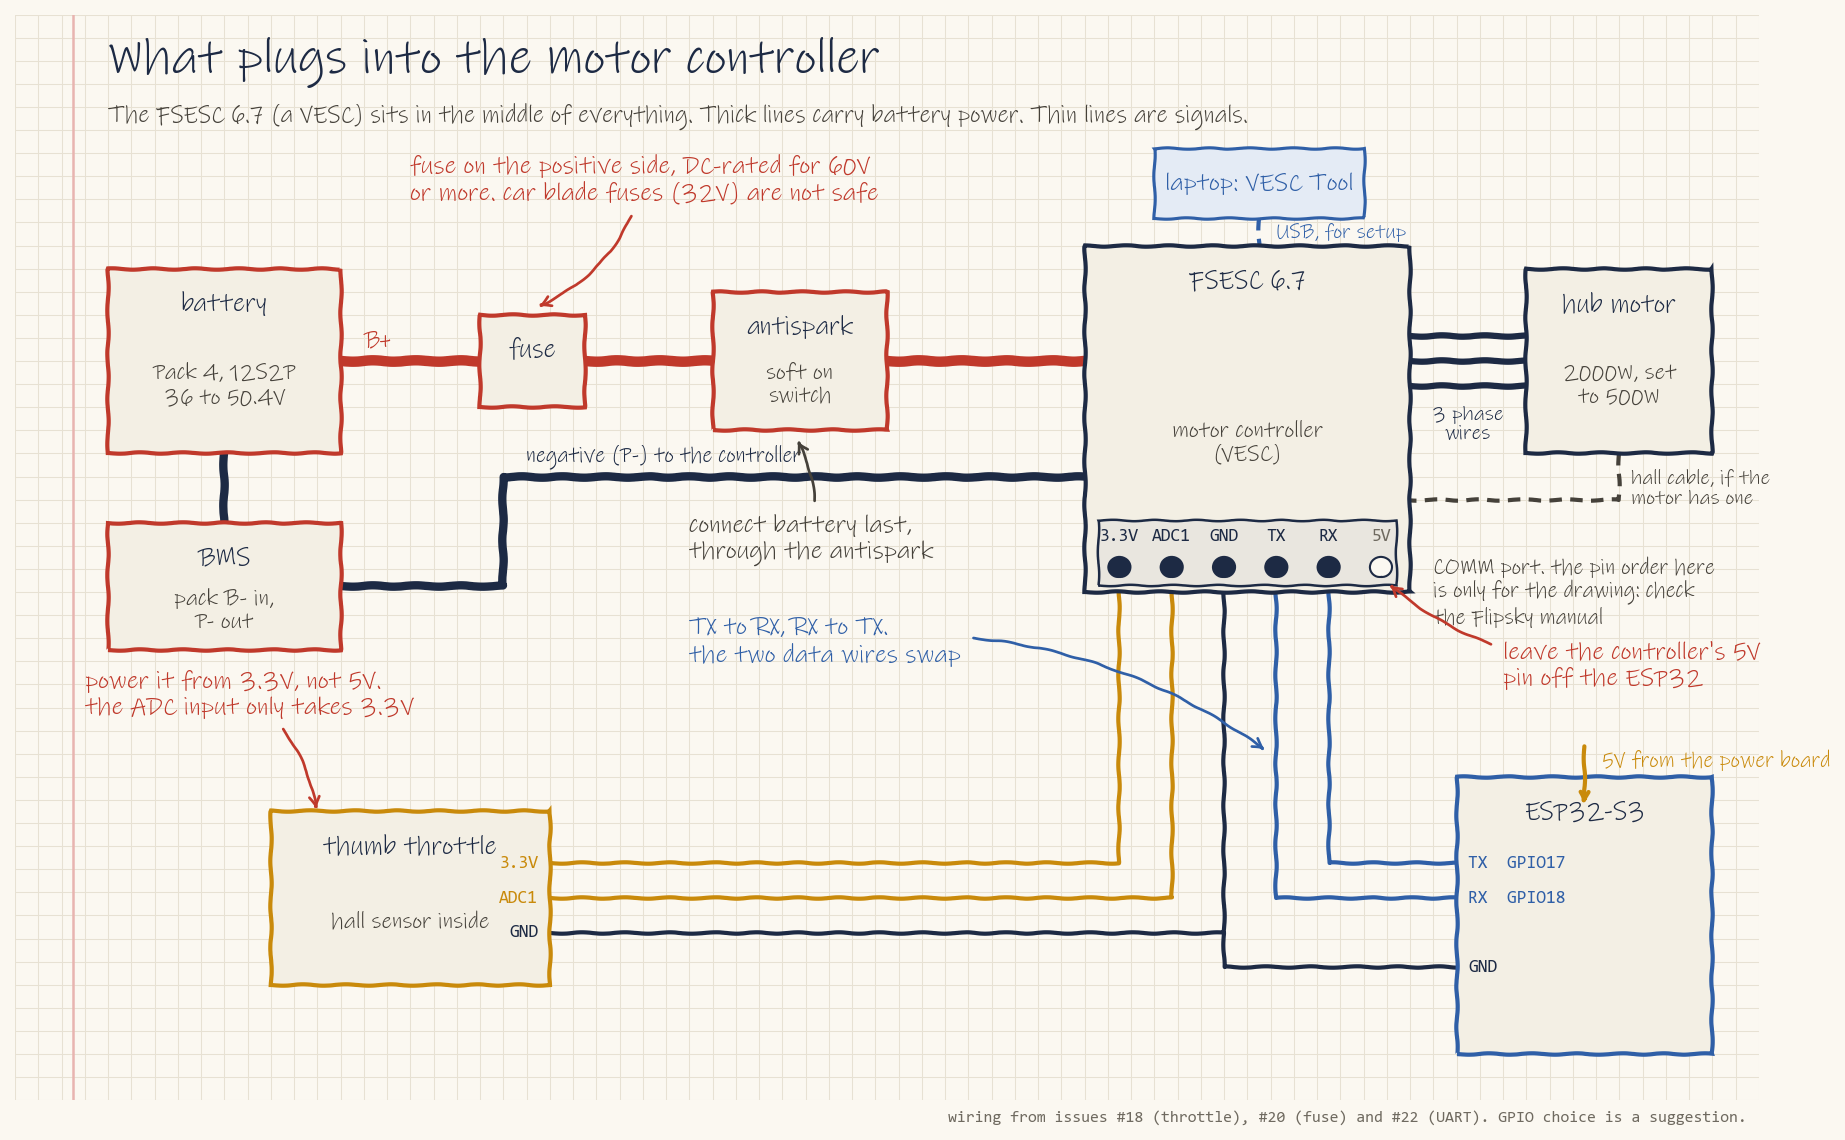
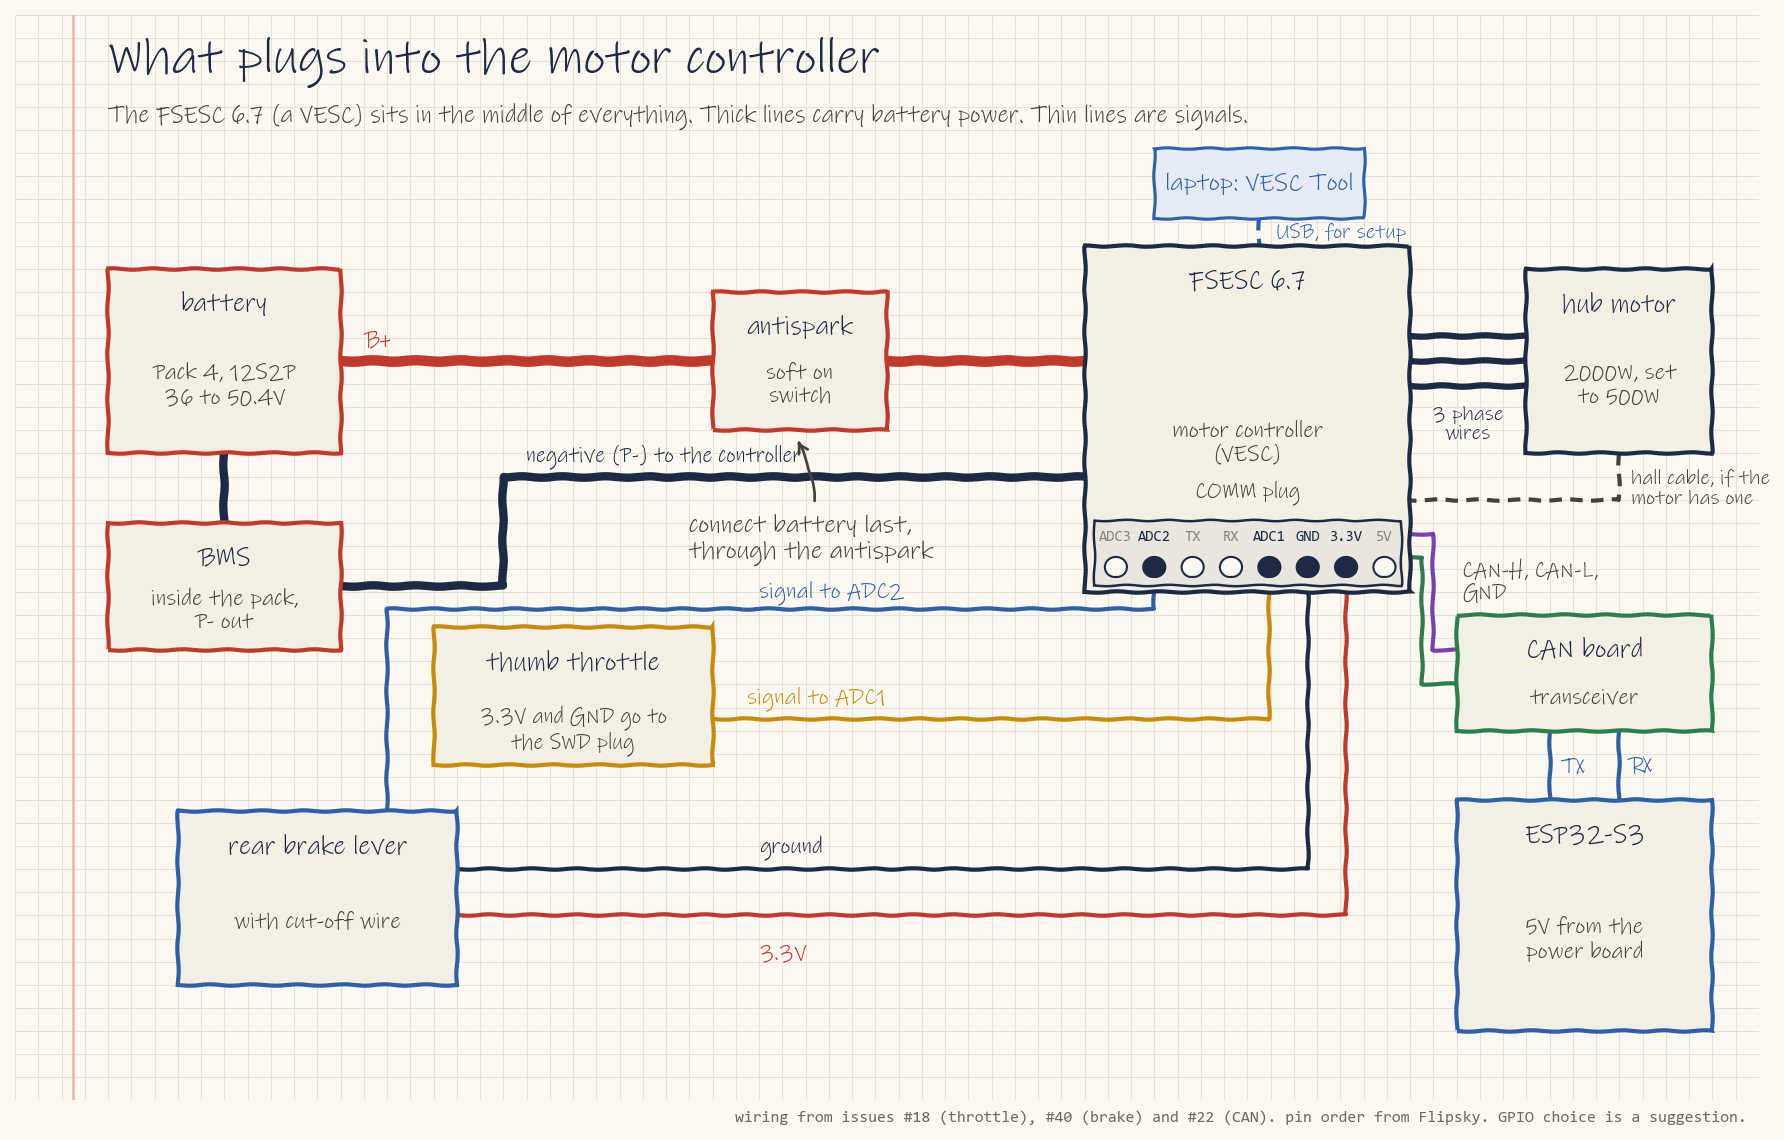
Update the docs and diagrams for CAN and no main fuse

Changed region(s): [[0.0308, 0.0307, 0.9865, 1.0], [0.0925, 0.3991, 0.1541, 0.4912], [0.0925, 0.5219, 0.1541, 0.5526]]

diff --git a/electrical/diagrams/motor-controller-connections.py b/electrical/diagrams/motor-controller-connections.py
@@ -18,22 +18,20 @@ def thin(xs, ys, c, ls='-'): ax.plot(xs, ys, color=c, lw=2, ls=ls, solid_capstyl
 
 Y = 64
 block(8, 56, 20, 16, 'battery', 'Pack 4, 12S2P\n36 to 50.4V', RED)
-block(8, 39, 20, 11, 'BMS', 'pack B- in,\nP- out', RED)
+block(8, 39, 20, 11, 'BMS', 'inside the pack,\nP- out', RED)
 thick([18, 18], [56, 50], INK, lw=4)
 thick([28, 42, 42, 92], [44.5, 44.5, 54, 54], INK, lw=4)
 note(ax, 44, 55.8, 'negative (P-) to the controller', size=9, color=INK)
-block(40, 60, 9, 8, 'fuse', '', RED)
 block(60, 58, 15, 12, 'antispark', 'soft on\nswitch', RED)
 block(92, 44, 28, 30, 'FSESC 6.7', 'motor controller\n(VESC)', INK)
 block(130, 56, 16, 16, 'hub motor', '2000W, set\nto 500W', INK)
-thick([28, 40], [Y, Y]); thick([49, 60], [Y, Y]); thick([75, 92], [Y, Y])
+thick([28, 60], [Y, Y]); thick([75, 92], [Y, Y])
 note(ax, 30, Y + 1.8, 'B+', size=10, color=RED, weight='bold')
 for dy in (-2.2, 0, 2.2):
     thick([120, 130], [Y + dy, Y + dy], INK, lw=3)
 note(ax, 125, Y - 5.4, '3 phase\nwires', size=8.5, color=INK, ha='center', linespacing=1)
 thin([138, 138, 120], [56, 52, 52], PENCIL, ls=(0, (3, 2)))
 note(ax, 139, 53, 'hall cable, if the\nmotor has one', size=8.5, color=PENCIL, linespacing=1.05)
-point(ax, (34, 78), (44.5, 68.5), 'fuse on the positive side, DC-rated for 60V\nor more. car blade fuses (32V) are not safe', color=RED, rad=-0.25)
 point(ax, (58, 47), (67, 57.6), 'connect battery last,\nthrough the antispark', color=PENCIL, rad=0.2)
 
 # laptop
@@ -42,34 +40,40 @@ note(ax, 107, 79.4, 'laptop: VESC Tool', size=10.5, ha='center', color=BLUE)
 thin([107, 107], [76.4, 74], BLUE, ls=(0, (3, 2)))
 note(ax, 108.5, 75.2, 'USB, for setup', size=8.5, color=BLUE)
 
-# COMM port on the controller
-px = [95, 99.5, 104, 108.5, 113, 117.5]
-names = ['3.3V', 'ADC1', 'GND', 'TX', 'RX', '5V']
-ax.add_patch(Rectangle((93.2, 44.6), 25.6, 5.6, fc='#e9e6df', ec=INK, lw=1.2, zorder=3))
+# COMM port on the controller, pins in the order Flipsky prints them
+names = ['ADC3', 'ADC2', 'TX', 'RX', 'ADC1', 'GND', '3.3V', '5V']
+px = [94.7 + i * 3.3 for i in range(8)]
+pos = dict(zip(names, px))
+used = {'ADC2', 'ADC1', 'GND', '3.3V'}
+ax.add_patch(Rectangle((92.8, 44.6), 26.4, 5.6, fc='#e9e6df', ec=INK, lw=1.2, zorder=3))
 for x, n in zip(px, names):
-    ax.add_patch(Circle((x, 46.2), 0.9, fc=INK if n != '5V' else PAPER, ec=INK, lw=1, zorder=4))
-    mono(ax, x, 48.8, n, size=7.6, ha='center', zorder=4, color=INK if n != '5V' else '#6f6a60')
-note(ax, 122, 44, 'COMM port. the pin order here\nis only for the drawing: check\nthe Flipsky manual', size=9, color=PENCIL, linespacing=1.1)
+    ax.add_patch(Circle((x, 46.2), 0.9, fc=INK if n in used else PAPER, ec=INK, lw=1, zorder=4))
+    mono(ax, x, 48.8, n, size=6.4, ha='center', zorder=4, color=INK if n in used else '#8a857a')
+note(ax, 106, 52.6, 'COMM plug', size=9, color=PENCIL, ha='center', zorder=4)
 
-# throttle, wires drop straight down then left, no crossings
-block(22, 10, 24, 15, 'thumb throttle', 'hall sensor inside', GOLD)
-for n, y in [('3.3V', 20.5), ('ADC1', 17.5), ('GND', 14.5)]:
-    x = px[names.index(n)]
-    thin([46, x, x], [y, y, 45.3], GOLD if n != 'GND' else INK)
-    mono(ax, 45, y, n, size=7.6, color=GOLD if n != 'GND' else INK, ha='right', zorder=3)
-point(ax, (6, 33.5), (26, 24.6), 'power it from 3.3V, not 5V.\nthe ADC input only takes 3.3V', color=RED, rad=-0.2)
+# throttle: signal to ADC1, power and ground from the SWD plug
+block(36, 29, 24, 12, 'thumb throttle', '', GOLD)
+note(ax, 48, 32, '3.3V and GND go to\nthe SWD plug', size=9, color=PENCIL, ha='center', linespacing=1.05, zorder=3)
+thin([60, pos['ADC1'], pos['ADC1']], [33, 33, 45.3], GOLD)
+note(ax, 63, 34.8, 'signal to ADC1', size=9.5, color=GOLD)
 
-# ESP32, to the right; RX->TX and TX->RX, GND shared
-block(124, 4, 22, 24, 'ESP32-S3', '', BLUE)
-thin([113, 113, 124], [45.3, 20.5, 20.5], BLUE)     # VESC RX <- ESP TX
-thin([108.5, 108.5, 124], [45.3, 17.5, 17.5], BLUE) # VESC TX -> ESP RX
-thin([104, 104, 124], [14.5, 11.5, 11.5], INK)      # shared ground
-for n, y in [('TX  GPIO17', 20.5), ('RX  GPIO18', 17.5), ('GND', 11.5)]:
-    mono(ax, 125, y, n, size=7.6, color=BLUE if n != 'GND' else INK, zorder=3)
-point(ax, (58, 38), (108, 30), "TX to RX, RX to TX.\nthe two data wires swap", color=BLUE, rad=-0.2)
-point(ax, (128, 36), (117.8, 45), "leave the controller's 5V\npin off the ESP32", color=RED, rad=-0.2, ha='left')
-ax.annotate('', xy=(135, 25.2), xytext=(135, 31), arrowprops=dict(arrowstyle='->', color=GOLD, lw=2))
-note(ax, 136.5, 29.5, '5V from the power board', size=9, color=GOLD)
+# rear brake lever: signal to ADC2, power and ground from COMM
+block(14, 10, 24, 15, 'rear brake lever', 'with cut-off wire', BLUE)
+thin([32, 32, pos['ADC2'], pos['ADC2']], [25, 42.5, 42.5, 45.3], BLUE)
+thin([38, pos['GND'], pos['GND']], [20, 20, 45.3], INK)
+thin([38, pos['3.3V'], pos['3.3V']], [16, 16, 45.3], RED)
+note(ax, 64, 44, 'signal to ADC2', size=9.5, color=BLUE)
+note(ax, 64, 21.8, 'ground', size=9.5, color=INK)
+note(ax, 64, 12.8, '3.3V', size=9.5, color=RED)
 
-mono(ax, 149, -1.5, 'wiring from issues #18 (throttle), #20 (fuse) and #22 (UART). GPIO choice is a suggestion.', size=7, color='#6f6a60', ha='right')
+# ESP32 reaches the controller over CAN, through an add-on board
+block(124, 32, 22, 10, 'CAN board', 'transceiver', GREEN)
+thin([120, 122, 122, 124], [49, 49, 39, 39], '#7b3fb0')
+thin([120, 121, 121, 124], [47, 47, 36, 36], GREEN)
+note(ax, 124.5, 45, 'CAN-H, CAN-L,\nGND', size=9, color=PENCIL, linespacing=1.05)
+block(124, 6, 22, 20, 'ESP32-S3', '5V from the\npower board', BLUE)
+thin([132, 132], [32, 26], BLUE); thin([138, 138], [32, 26], BLUE)
+note(ax, 133, 29, 'TX', size=9, color=BLUE, ha='left'); note(ax, 139, 29, 'RX', size=9, color=BLUE, ha='left')
+
+mono(ax, 149, -1.5, 'wiring from issues #18 (throttle), #40 (brake) and #22 (CAN). pin order from Flipsky. GPIO choice is a suggestion.', size=7, color='#6f6a60', ha='right')
 save(fig, os.path.join(HERE, 'motor-controller-connections.png'))

diff --git a/electrical/diagrams/bakfiets-power-flow.py b/electrical/diagrams/bakfiets-power-flow.py
@@ -6,7 +6,7 @@ from matplotlib.patches import Rectangle, Circle, FancyArrowPatch
 
 fig, ax = page(150, 98, (15, 9.8))
 note(ax, 8, 94, 'How power flows through the bakfiets', size=24, weight='bold')
-note(ax, 8, 89.2, 'Block diagram, 12S pack (50.4 V full). Red: battery + through fuse and antispark. Black: battery - through the BMS and antispark.\nOrange: 5 V rail. Dashed blue: low-voltage signals. Numbers match the list in electrical/README.md.',
+note(ax, 8, 89.2, 'Block diagram, 12S pack (50.4 V full). Red: battery + through the antispark. Black: battery - through the BMS and antispark.\nOrange: 5 V rail. Dashed blue: low-voltage signals. Numbers match the list in electrical/README.md.',
      size=11.5, color=PENCIL)
 
 def block(x, y, w, h, title, sub, col, n=None):
@@ -25,23 +25,21 @@ def arrow(p, q, c, ls='-', lw=2, rad=0):
 Y = 72
 block(9, 66, 15, 12, 'charger', '12S, 50.4V', RED, 1)
 block(34, 62, 18, 16, 'battery pack', 'Pack 4: 12S2P\nlithium-ion cells', RED, 2)
-block(58, 68, 7, 8, 'fuse', '', RED)
 block(72, 66, 15, 12, 'antispark', 'soft power-on', RED, 4)
 block(108, 60, 20, 20, 'motor\ncontroller', '', RED, 5)
-note(ax, 118, 62.5, 'VESC-style (model ?)', size=9.2, color=PENCIL, ha='center', zorder=3)
+note(ax, 118, 62.5, 'Flipsky FSESC 6.7', size=9.2, color=PENCIL, ha='center', zorder=3)
 block(134, 63, 14, 14, 'hub\nmotor', '', INK)
 note(ax, 141, 65.5, '2000W, set\nto 500W', size=9.2, color=PENCIL, ha='center', zorder=3)
-line([24, 34], [Y, Y]); line([52, 58], [Y, Y]); line([65, 72], [Y, Y]); line([87, 108], [Y, Y])
+line([24, 34], [Y, Y]); line([52, 72], [Y, Y]); line([87, 108], [Y, Y])
 note(ax, 97.5, 76.5, 'battery power\nfor the motor', size=8.5, color=RED, ha='center', linespacing=1)
 for dy in (-2, 0, 2): line([128, 134], [Y + dy, Y + dy], INK, lw=2.6)
 arrow((134, 65), (128.2, 65), BLUE, ls=(0, (4, 3)))
 note(ax, 141, 60.6, 'hall sensors:\nwhere the rotor is', size=8.2, color=BLUE, ha='center', linespacing=1)
 note(ax, 141, 82, '3 phase wires:\npower that\nspins the motor', size=8.2, color=INK, ha='center', linespacing=1)
-note(ax, 29, 82, 'charging port:\nrefills the pack\n(fused, DC 60V+)', size=8.2, color=RED, ha='center', linespacing=1)
-note(ax, 61.5, 82, 'fuse: blows if a short pulls\ntoo much current (DC 60V+)', size=9.2, color=RED, ha='center', linespacing=1.1)
+note(ax, 29, 82, 'charging port:\nrefills the pack', size=8.2, color=RED, ha='center', linespacing=1)
 
 # negative side through the BMS
-block(34, 44, 18, 11, 'BMS', 'B- in, P- out', INK, 3)
+block(34, 44, 18, 11, 'BMS', 'inside the pack\nB- in, P- out', INK, 3)
 line([43, 43], [62, 55], INK, lw=4)
 note(ax, 44, 58.5, "B-: the pack's minus side", size=9, color=INK)
 line([52, 84, 84], [49.5, 49.5, 66], INK, lw=4)
@@ -67,25 +65,24 @@ note(ax, 133.5, 54.5, 'how fast the rider\nwants to go (ADC, 3.3V)', size=8.5, c
 
 # electronics
 block(34, 8, 24, 13, 'ESP32-S3', "the bike's small\ncomputer", BLUE, 7)
-block(9, 9, 17, 10, 'screen', '128x64 OLED', BLUE)
+block(9, 9, 17, 10, 'screen', '2.8 inch TFT', BLUE)
 block(84, 9, 22, 10, 'lights', 'LED strip, brake', GOLD)
 block(34, 0.5, 24, 5.5, 'buttons', '', BLUE)
-block(116, 9, 22, 10, 'brake levers', '', BLUE)
+block(116, 9, 22, 10, 'rear brake lever', '', BLUE)
 arrow((92, 26), (52, 21.2), GOLD, lw=2.4, rad=-0.1)
 arrow((97, 26), (97, 19.2), GOLD, lw=2.4)
 note(ax, 66, 26.2, '5V: powers the ESP32', size=9.2, color=GOLD, weight='bold')
 note(ax, 98.5, 22.6, '5V: powers the lights', size=9.2, color=GOLD, weight='bold')
 arrow((34, 14), (26.2, 14), BLUE, ls=(0, (4, 3)))
-note(ax, 26.8, 9.8, 'I2C:\nwhat to\nshow', size=8.2, color=BLUE, linespacing=1)
+note(ax, 26.8, 9.8, 'SPI:\nwhat to\nshow', size=8.2, color=BLUE, linespacing=1)
 arrow((58, 14), (83.8, 14), BLUE, ls=(0, (4, 3)))
 note(ax, 60, 17, 'LED data: which LEDs\nto turn on, and what colour', size=8.5, color=BLUE, linespacing=1)
 arrow((46, 6), (46, 7.8), BLUE, ls=(0, (4, 3)))
 note(ax, 59.5, 3.2, 'the rider presses them\n(lights, assist level)', size=8.5, color=BLUE, linespacing=1)
-arrow((116, 14), (106.2, 14), BLUE, ls=(0, (4, 3)))
 arrow((127, 19), (121, 59.8), BLUE, ls=(0, (4, 3)), rad=0.1)
-note(ax, 131, 30, 'brake levers cut\nmotor power (#18)\nand light the\nbrake lights', size=8.8, color=BLUE, linespacing=1.05)
+note(ax, 131, 30, 'the lever cuts\nmotor power (#40).\nthe ESP32 reads it\nfor the brake light', size=8.8, color=BLUE, linespacing=1.05)
 ax.plot([40, 40, 117, 117], [21, 43.5, 43.5, 60], color=BLUE, lw=1.8, ls=(0, (2, 3)), zorder=1)
-note(ax, 56, 46.4, 'UART (#22): the controller sends speed\nand battery level, for the screen', size=9.3, color=BLUE, linespacing=1.05)
+note(ax, 56, 46.4, 'CAN (#22): the controller sends speed\nand battery level, for the screen', size=9.3, color=BLUE, linespacing=1.05)
 
 # key
 lx, ly = 9, 34
@@ -94,5 +91,5 @@ line([lx, lx + 4], [ly - 3.2, ly - 3.2], RED, 5); note(ax, lx + 5.5, ly - 3.2, '
 line([lx, lx + 4], [ly - 6.4, ly - 6.4], INK, 4); note(ax, lx + 5.5, ly - 6.4, 'battery -', size=9.5)
 ax.plot([lx + 18, lx + 22], [ly - 3.2, ly - 3.2], color=GOLD, lw=2.4); note(ax, lx + 23.5, ly - 3.2, '5V', size=9.5)
 ax.plot([lx + 18, lx + 22], [ly - 6.4, ly - 6.4], color=BLUE, lw=2, ls=(0, (4, 3))); note(ax, lx + 23.5, ly - 6.4, 'signals', size=9.5)
-mono(ax, 149, -2, 'redrawn from the 2024 block diagram (high-level-circuit-diagram-2024.png). Fuse, BMS side, brake cut-off and UART added from issues #18 to #22', size=6.6, color='#6f6a60', ha='right')
+mono(ax, 149, -2, 'redrawn from the 2024 block diagram (high-level-circuit-diagram-2024.png). BMS side, brake cut-off and CAN added from issues #18 to #40', size=6.6, color='#6f6a60', ha='right')
 save(fig, os.path.join(HERE, 'bakfiets-power-flow.png'))

diff --git a/ONBOARDING.md b/ONBOARDING.md
@@ -125,7 +125,7 @@ From the UW [Lithium Cell and Battery Standard](https://uwaterloo.ca/safety-offi
 2. Store packs in a metal box or battery cabinet. A LiPo bag is too small for a 24-cell e-bike pack.
 3. Charge on a non-combustible surface (concrete or a metal tray) away from anything that burns. Stay with a pack the whole time it charges, and unplug it once it's full.
 4. Use only a charger marked 12S with a 50.4 V output (12S means 12 cell groups in series). Our pack reaches 50.4 V when full, and UW's standard calls for extra safety steps at 50 V and above. That's why battery work always needs the electrical lead there.
-5. Pack 4 is the pack we use. Ling says it's working and still has charge. Look it over before using it, and only use it wired through the BMS, a fuse and the antispark ([#21](https://github.com/Electrium-Mobility/Bakfiets-F26/issues/21)).
+5. Pack 4 is the pack we use. Ling says it's working and still has charge. Look it over before using it. The BMS is built in, and the pack connects through the antispark ([#21](https://github.com/Electrium-Mobility/Bakfiets-F26/issues/21)).
 6. Never use a swollen or damaged pack.
 7. If a pack gets hot, smells or smokes, get everyone away and pull the fire alarm if there's fire. Then tell the electrical lead and the project lead.
 8. Every pack goes on the SDC's shared battery and chemical inventory sheet, which the SDC is setting up this term.
@@ -298,12 +298,12 @@ You will learn to read a real Electrium board, then help design the bike's elect
 *Thick red lines carry full battery voltage (about 36 to 50 V). Orange lines carry 5 V. Dashed blue lines are signals only.*
 
 1. **Charger** plugs into a charging port on the frame and fills the pack to 50.4 V.
-2. **Battery pack**: Pack 4, a 48 V pack labelled 12S2P. That's 12 groups wired in series, with 2 cells in parallel in each group: 24 cells, about 44 V in normal use. "48 V" is just the name shops use for packs this size. [#21](https://github.com/Electrium-Mobility/Bakfiets-F26/issues/21) confirms the 12S by counting the balance wires before anyone uses it. The drawing under this list shows how the cells connect. The positive side goes through a fuse (DC-rated for 60 V or more).
+2. **Battery pack**: Pack 4, a 48 V pack labelled 12S2P. That's 12 groups wired in series, with 2 cells in parallel in each group: 24 cells, about 44 V in normal use. "48 V" is just the name shops use for packs this size. [#21](https://github.com/Electrium-Mobility/Bakfiets-F26/issues/21) confirms the 12S by counting the balance wires before anyone uses it. The drawing under this list shows how the cells connect. The pack runs without a main fuse.
 3. **BMS** (battery management system) sits on the pack's negative side, so both charging and riding current pass through it. It cuts the pack off on overcharge, over-discharge, overheating or a short.
 4. **Antispark**: the power button switches it on, and it lets power in slowly so the controller's capacitors charge without a spark. *Design note for later, not needed for Stage 1:* the Electrium anti-spark board you read in Stage 1 uses N-channel MOSFETs, which usually means it switches the negative wire. Check that in its schematic. If it does switch the negative wire, the power board and the ESP32 must take their negative from the switched side too. Otherwise the ESP32's ground wire to the controller becomes a path around the antispark, which can damage the controller's COMM port or the ESP32.
 5. **Motor controller (ESC)** turns battery power into the three motor wires. The throttle sends it a speed request, and the brake levers tell it to cut power.
 6. **Power board (PDB)** steps 48 V down to 5 V for the small electronics and lights.
-7. **ESP32-S3** runs the display and LED strip, reads the buttons, and gets speed and battery data from the controller over UART.
+7. **ESP32-S3** runs the display and LED strip, reads the buttons, and gets speed and battery data from the controller over CAN, through a small add-on board called a CAN transceiver.
 
 ![A 12S2P pack seen from above: 12 groups of 2 cells, voltages adding up to about 44 V, and 13 balance wires to the BMS](electrical/diagrams/pack-12s2p.png)
 
@@ -435,7 +435,7 @@ Pick one of these and claim it with a comment on the issue saying you're working
 
 | Issue | What you'll do |
 | --- | --- |
-| [#22](https://github.com/Electrium-Mobility/Bakfiets-F26/issues/22) | Read speed and battery data from the motor controller (VESC) over UART |
+| [#22](https://github.com/Electrium-Mobility/Bakfiets-F26/issues/22) | Read speed and battery data from the motor controller (VESC) over CAN |
 | [#23](https://github.com/Electrium-Mobility/Bakfiets-F26/issues/23) | Decide whether the bike needs a screen, and which one |
 | [#13](https://github.com/Electrium-Mobility/Bakfiets-F26/issues/13) | Stop the LED animation from freezing the code, using `millis()` ([video](https://www.youtube.com/watch?v=BYKQ9rk0FEQ), 14 min) |
 | [#14](https://github.com/Electrium-Mobility/Bakfiets-F26/issues/14) | Add a button that changes the PA level |
@@ -447,7 +447,7 @@ Pick one of these and claim it with a comment on the issue saying you're working
 | Requirement | Value |
 | --- | --- |
 | Board | ESP32-S3 |
-| Pins | Screen SDA GPIO 10, SCL GPIO 9. LED strip GPIO 5. Motor controller UART (suggested) TX GPIO 17, RX GPIO 18 |
+| Pins | Screen SDA GPIO 10, SCL GPIO 9. LED strip GPIO 5. Motor controller CAN (suggested) TX GPIO 17, RX GPIO 18 |
 | Loop timing | No `delay()` longer than 20 ms in `loop()` |
 | Where new code goes | A new folder, such as `firmware/display-2026/`. To make it, open the desk demo, choose **File > Save As**, and save it as `display-2026` inside `firmware/`. Arduino needs the folder and the `.ino` file to share a name. Leave `display-2024/` unchanged |
 | Battery input | Test with a bench power supply, not the pack, until the electrical lead checks your divider |

diff --git a/electrical/README.md b/electrical/README.md
@@ -19,18 +19,18 @@ A redrawn, color-coded version of the 2024 block diagram. Red lines are the batt
 Follow the numbers:
 
 1. **Charger.** Plugs into a charging port on the frame and fills the pack to 50.4 V.
-2. **Battery pack.** Pack 4, 12S2P. Its positive side goes through a fuse, DC-rated for 60 V or more.
-3. **BMS.** Sits on the pack's negative side (B- in, P- out), so charging and riding current both pass through it. Cuts the pack off on overcharge, over-discharge, overheating or a short.
+2. **Battery pack.** Pack 4, 12S2P. The pack runs without a main fuse.
+3. **BMS.** Built into the pack, on its negative side (B- in, P- out), so charging and riding current both pass through it. Cuts the pack off on overcharge, over-discharge, overheating or a short.
 4. **Antispark.** The power button turns it on, so the controller's capacitors charge gently instead of sparking. The Electrium anti-spark board uses N-channel MOSFETs, which usually means it switches the negative wire. Check its schematic. If it does switch the negative wire, the power board and the ESP32 must take their negative from the switched side too. Otherwise the ESP32's ground wire to the controller becomes a path around the antispark, which can damage the controller's COMM port or the ESP32.
-5. **Motor controller.** The ESC turns battery power into the three motor wires. The throttle sends it a speed request, and the brake levers tell it to cut power.
+5. **Motor controller.** The ESC turns battery power into the three motor wires. The throttle sends it a speed request, and the rear brake lever tells it to cut power.
 6. **Power board.** The PDB steps 48 V down to 5 V for the electronics and lights.
-7. **ESP32-S3.** It drives the display over I2C and the LED strip, reads the buttons, and gets speed and battery data from the controller over UART. The brake levers also switch the brake lights.
+7. **ESP32-S3.** It drives the display over I2C and the LED strip, reads the buttons, and gets speed and battery data from the controller over CAN, through a small add-on board called a CAN transceiver. It also reads the rear brake lever to turn on the brake light.
 
 ## What plugs into the motor controller
 
 ![Motor controller connections](diagrams/motor-controller-connections.png)
 
-The throttle, UART and fuse details come from term projects #18, #20 and #22. The COMM port pin order in the drawing is only for layout, so check the Flipsky manual.
+The throttle, brake and CAN details come from term projects #18, #40 and #22. Check the labels printed on the controller before wiring.
 
 ## Boards you can learn from or reuse
 
